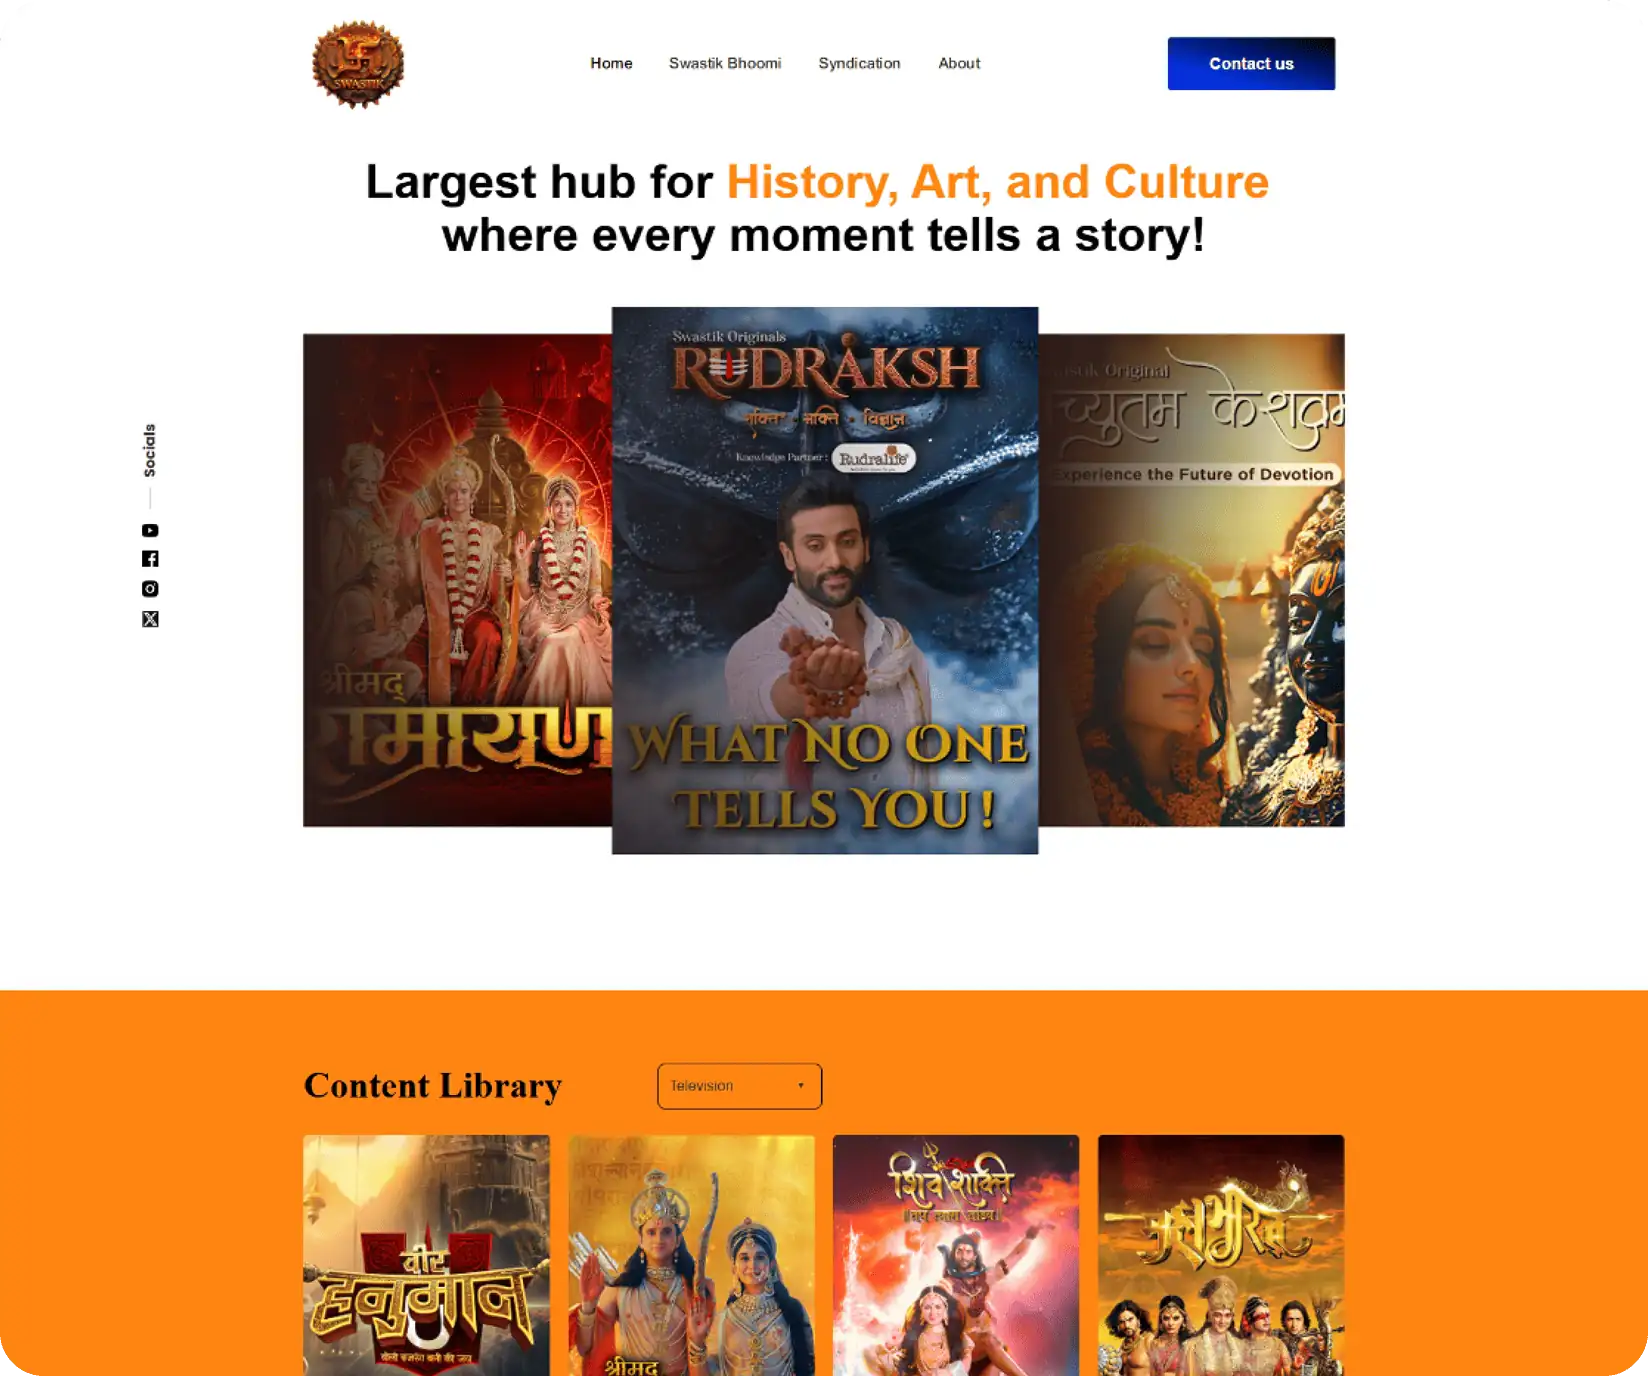
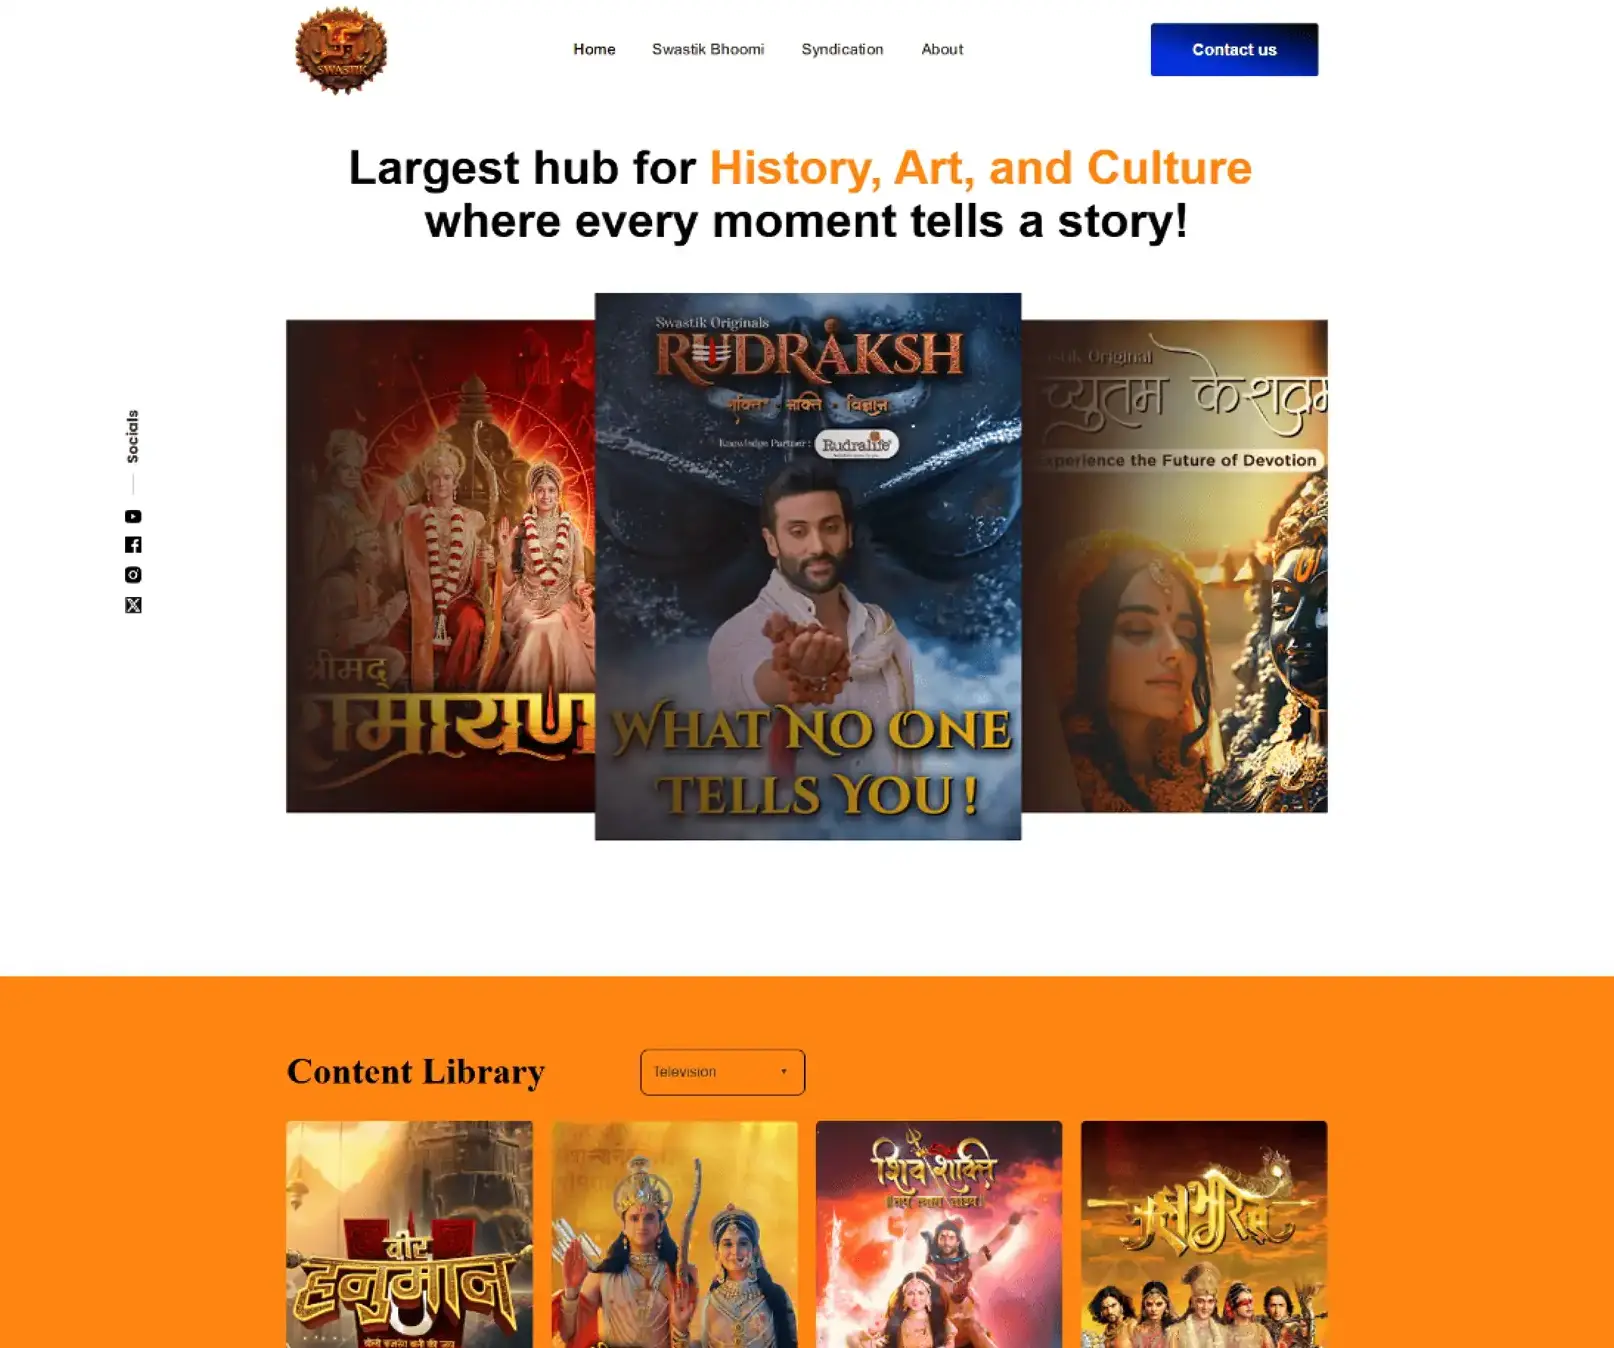
feat: add service detail page template, inline consultation form component, styles, and portfolio assets
# Conflicts:
#	resources/views/components/frontend/inline-consultation-form.blade.php
#	resources/views/frontend/service-detail.blade.php

diff --git a/public/css/style.css b/public/css/style.css
@@ -4239,7 +4239,8 @@ body.mobile-nav-open {
 }
 
 .portfolio-hero-showcase .portfolio-showcase__image {
-  aspect-ratio: 1.23 / 1;
+  aspect-ratio: 1614 / 1348;
+  border-radius: 0;
   box-shadow: 0 12px 30px rgb(36 36 84 / 8%);
 }
 

diff --git a/resources/views/components/frontend/inline-consultation-form.blade.php b/resources/views/components/frontend/inline-consultation-form.blade.php
@@ -4,6 +4,8 @@
     'buttonText' => 'Get Free Consultation',
     'secondaryHref' => '',
     'secondaryLabel' => '',
+    'secondaryAsButton' => false,
+    'secondaryClass' => '',
     'formId' => null,
     'showField' => false,
     'align' => 'center',
@@ -61,11 +63,22 @@
   <div class="consultation-inline-status mt-2 text-xs font-medium px-1 text-left" hidden></div>
 
   @if ($secondaryLabel !== '' && $secondaryHref !== '')
-    <div class="mt-3 flex items-center">
+    @php
+      $hasTextArrow = str_contains($secondaryLabel, '→') || str_contains($secondaryLabel, '&rarr;');
+      $defaultSecondaryClass = $secondaryAsButton
+          ? ($isDark
+              ? 'group inline-flex items-center gap-2 rounded-full border border-white/20 bg-white/10 px-5 py-2 text-sm font-semibold text-white backdrop-blur-sm transition hover:bg-white/20'
+              : 'u-btn-cta group inline-flex cursor-pointer items-center gap-2 rounded-full bg-gradient-to-r from-[#2A4DFB] to-[#0026E3] px-5 py-2 text-sm font-bold text-white shadow-lg shadow-indigo-950/30 transition hover:brightness-110')
+          : 'group inline-flex items-center gap-1.5 no-underline '.($isDark ? 'border-white/70 text-white/80 hover:text-white' : 'border-[#00003F] text-[#2A4DFB] hover:text-[#2A4DFB]').' text-[13px] sm:text-sm font-semibold transition';
+      $appliedSecondaryClass = $secondaryClass !== '' ? $secondaryClass : $defaultSecondaryClass;
+    @endphp
+    <div class="{{ $secondaryAsButton ? 'mt-4 flex items-center justify-center' : 'mt-3 flex items-center' }}">
       <a href="{{ $secondaryHref }}"
-        class="group inline-flex items-center gap-1.5 no-underline {{ $isDark ? 'border-white/70 text-white/80 hover:text-white' : 'border-[#00003F] text-[#2A4DFB] hover:text-[#2A4DFB]' }} text-[13px] sm:text-sm font-semibold transition">
-        {{ $secondaryLabel }}
-        <x-frontend.cta-arrow />
+        class="{{ $appliedSecondaryClass }}">
+        <span>{{ $secondaryLabel }}</span>
+        @if (! $hasTextArrow)
+          <x-frontend.cta-arrow class="shrink-0" />
+        @endif
       </a>
     </div>
   @endif
